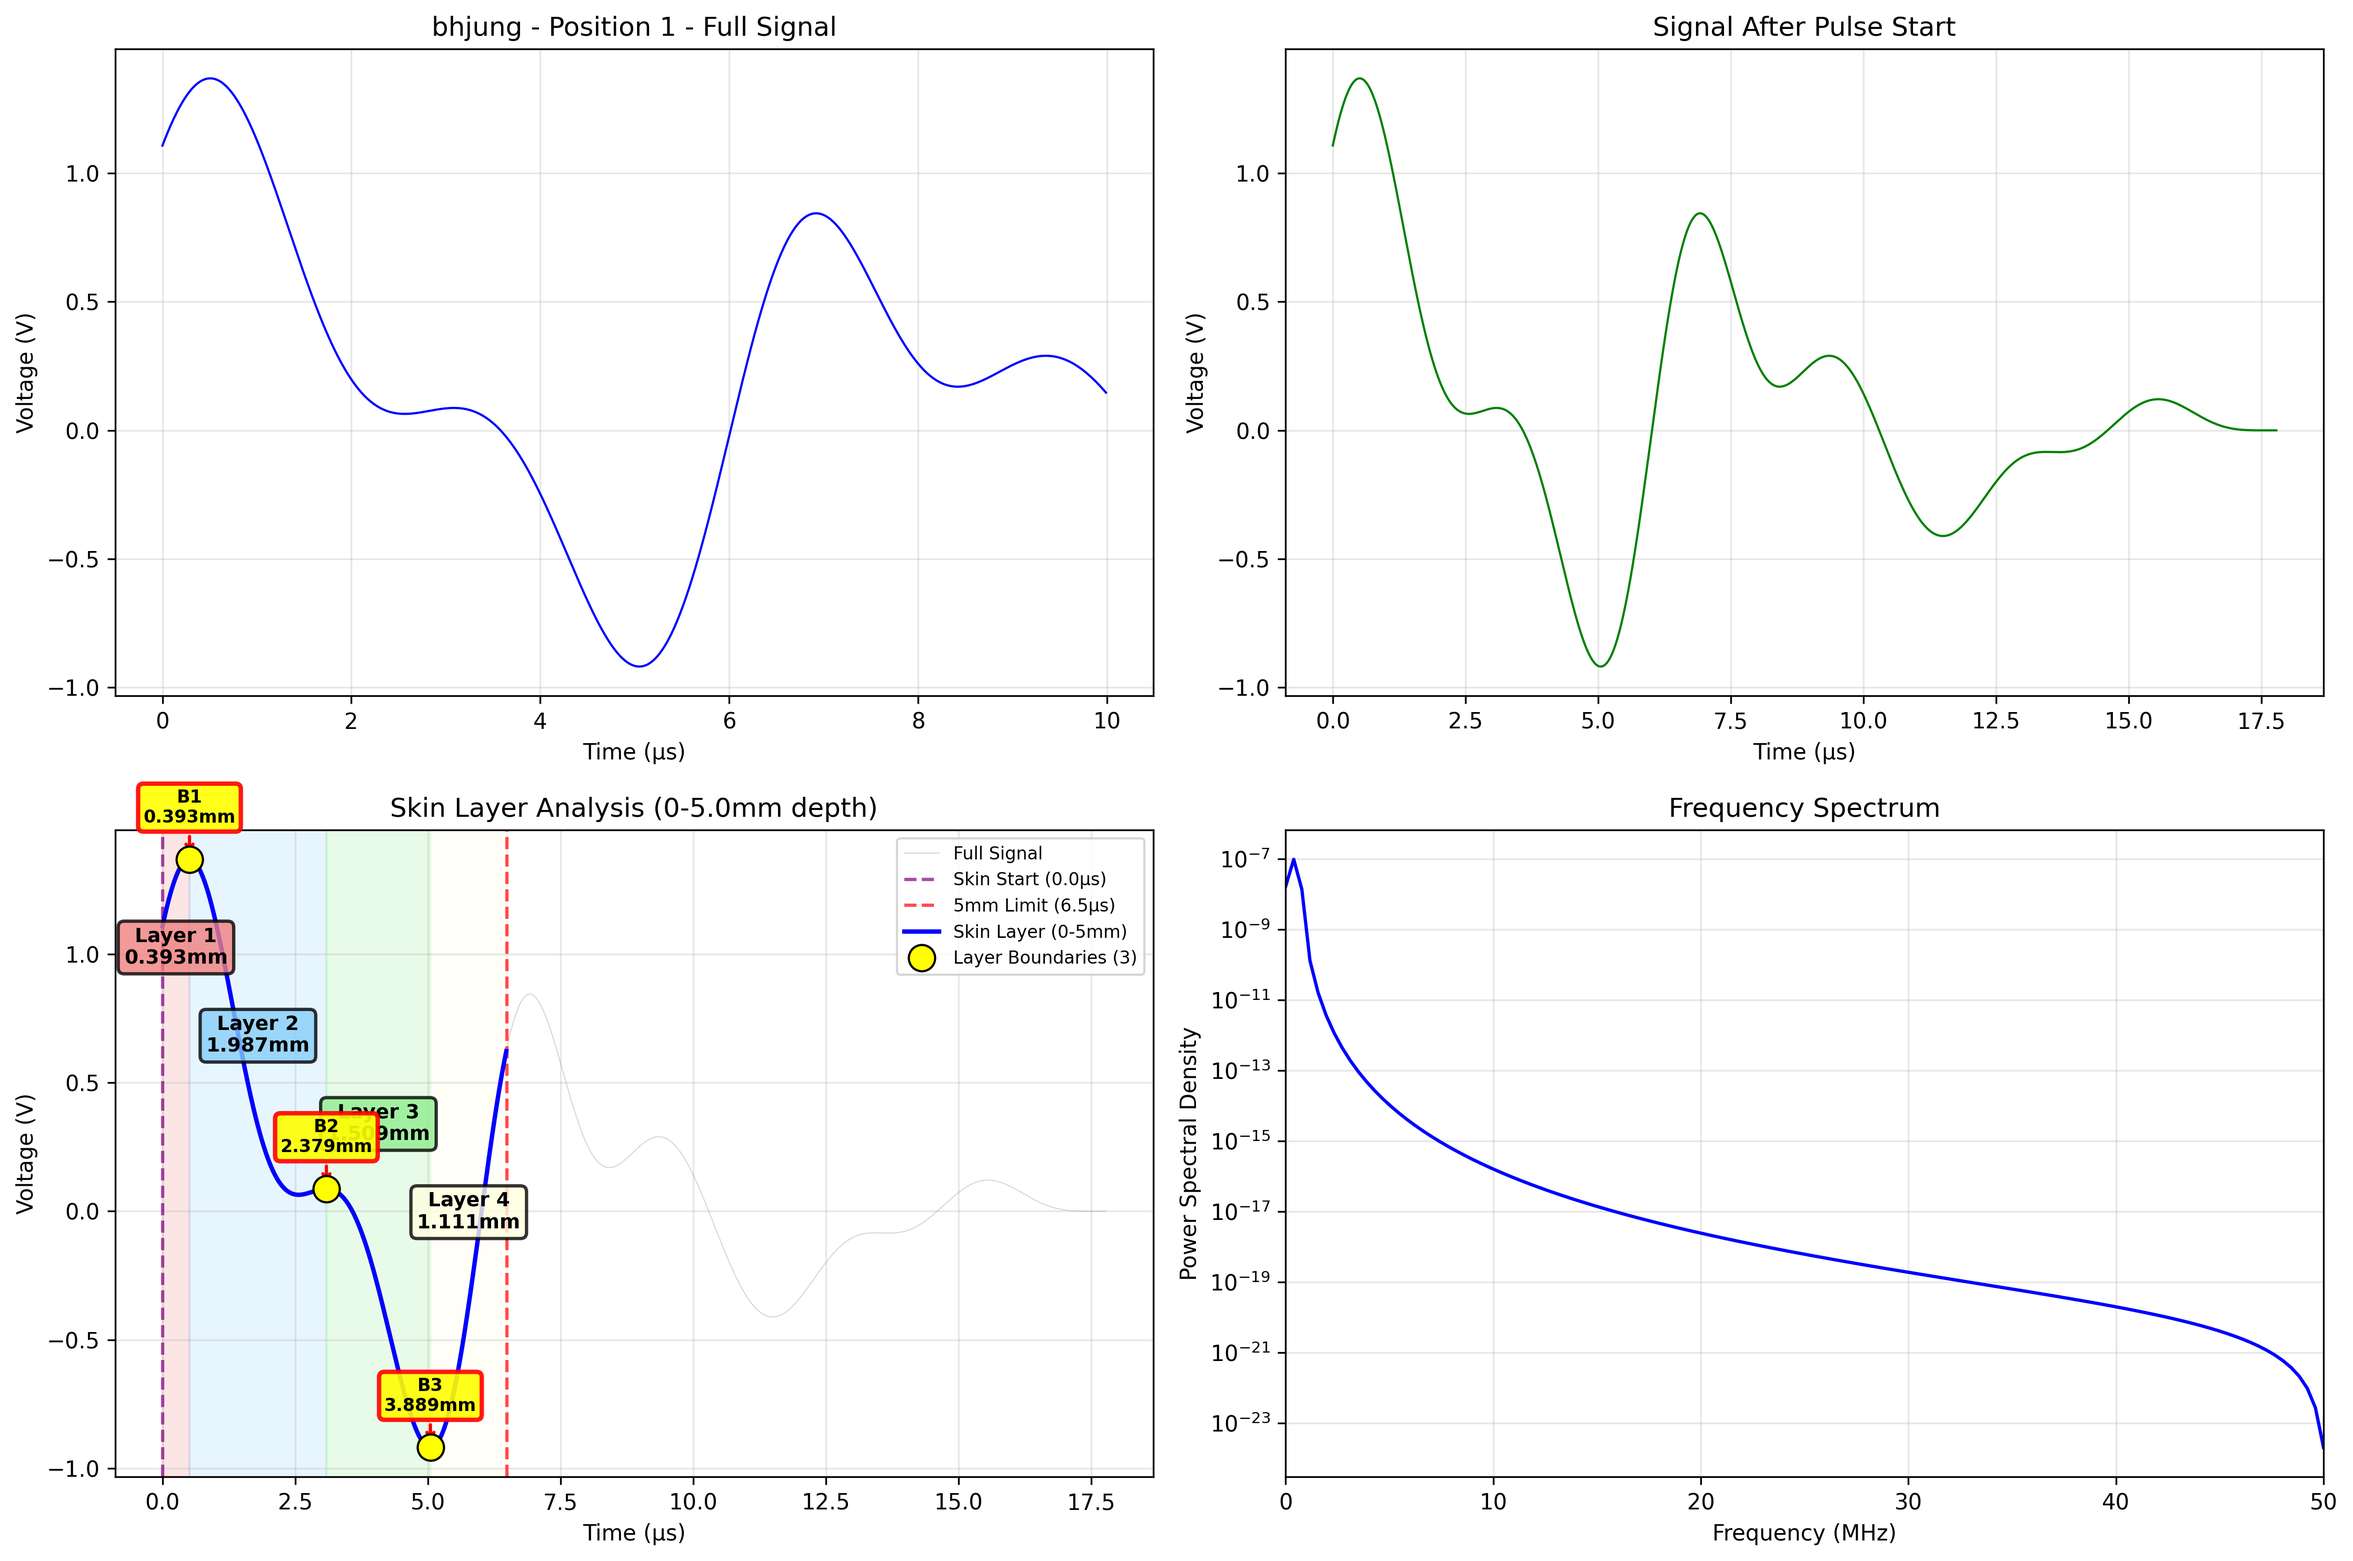
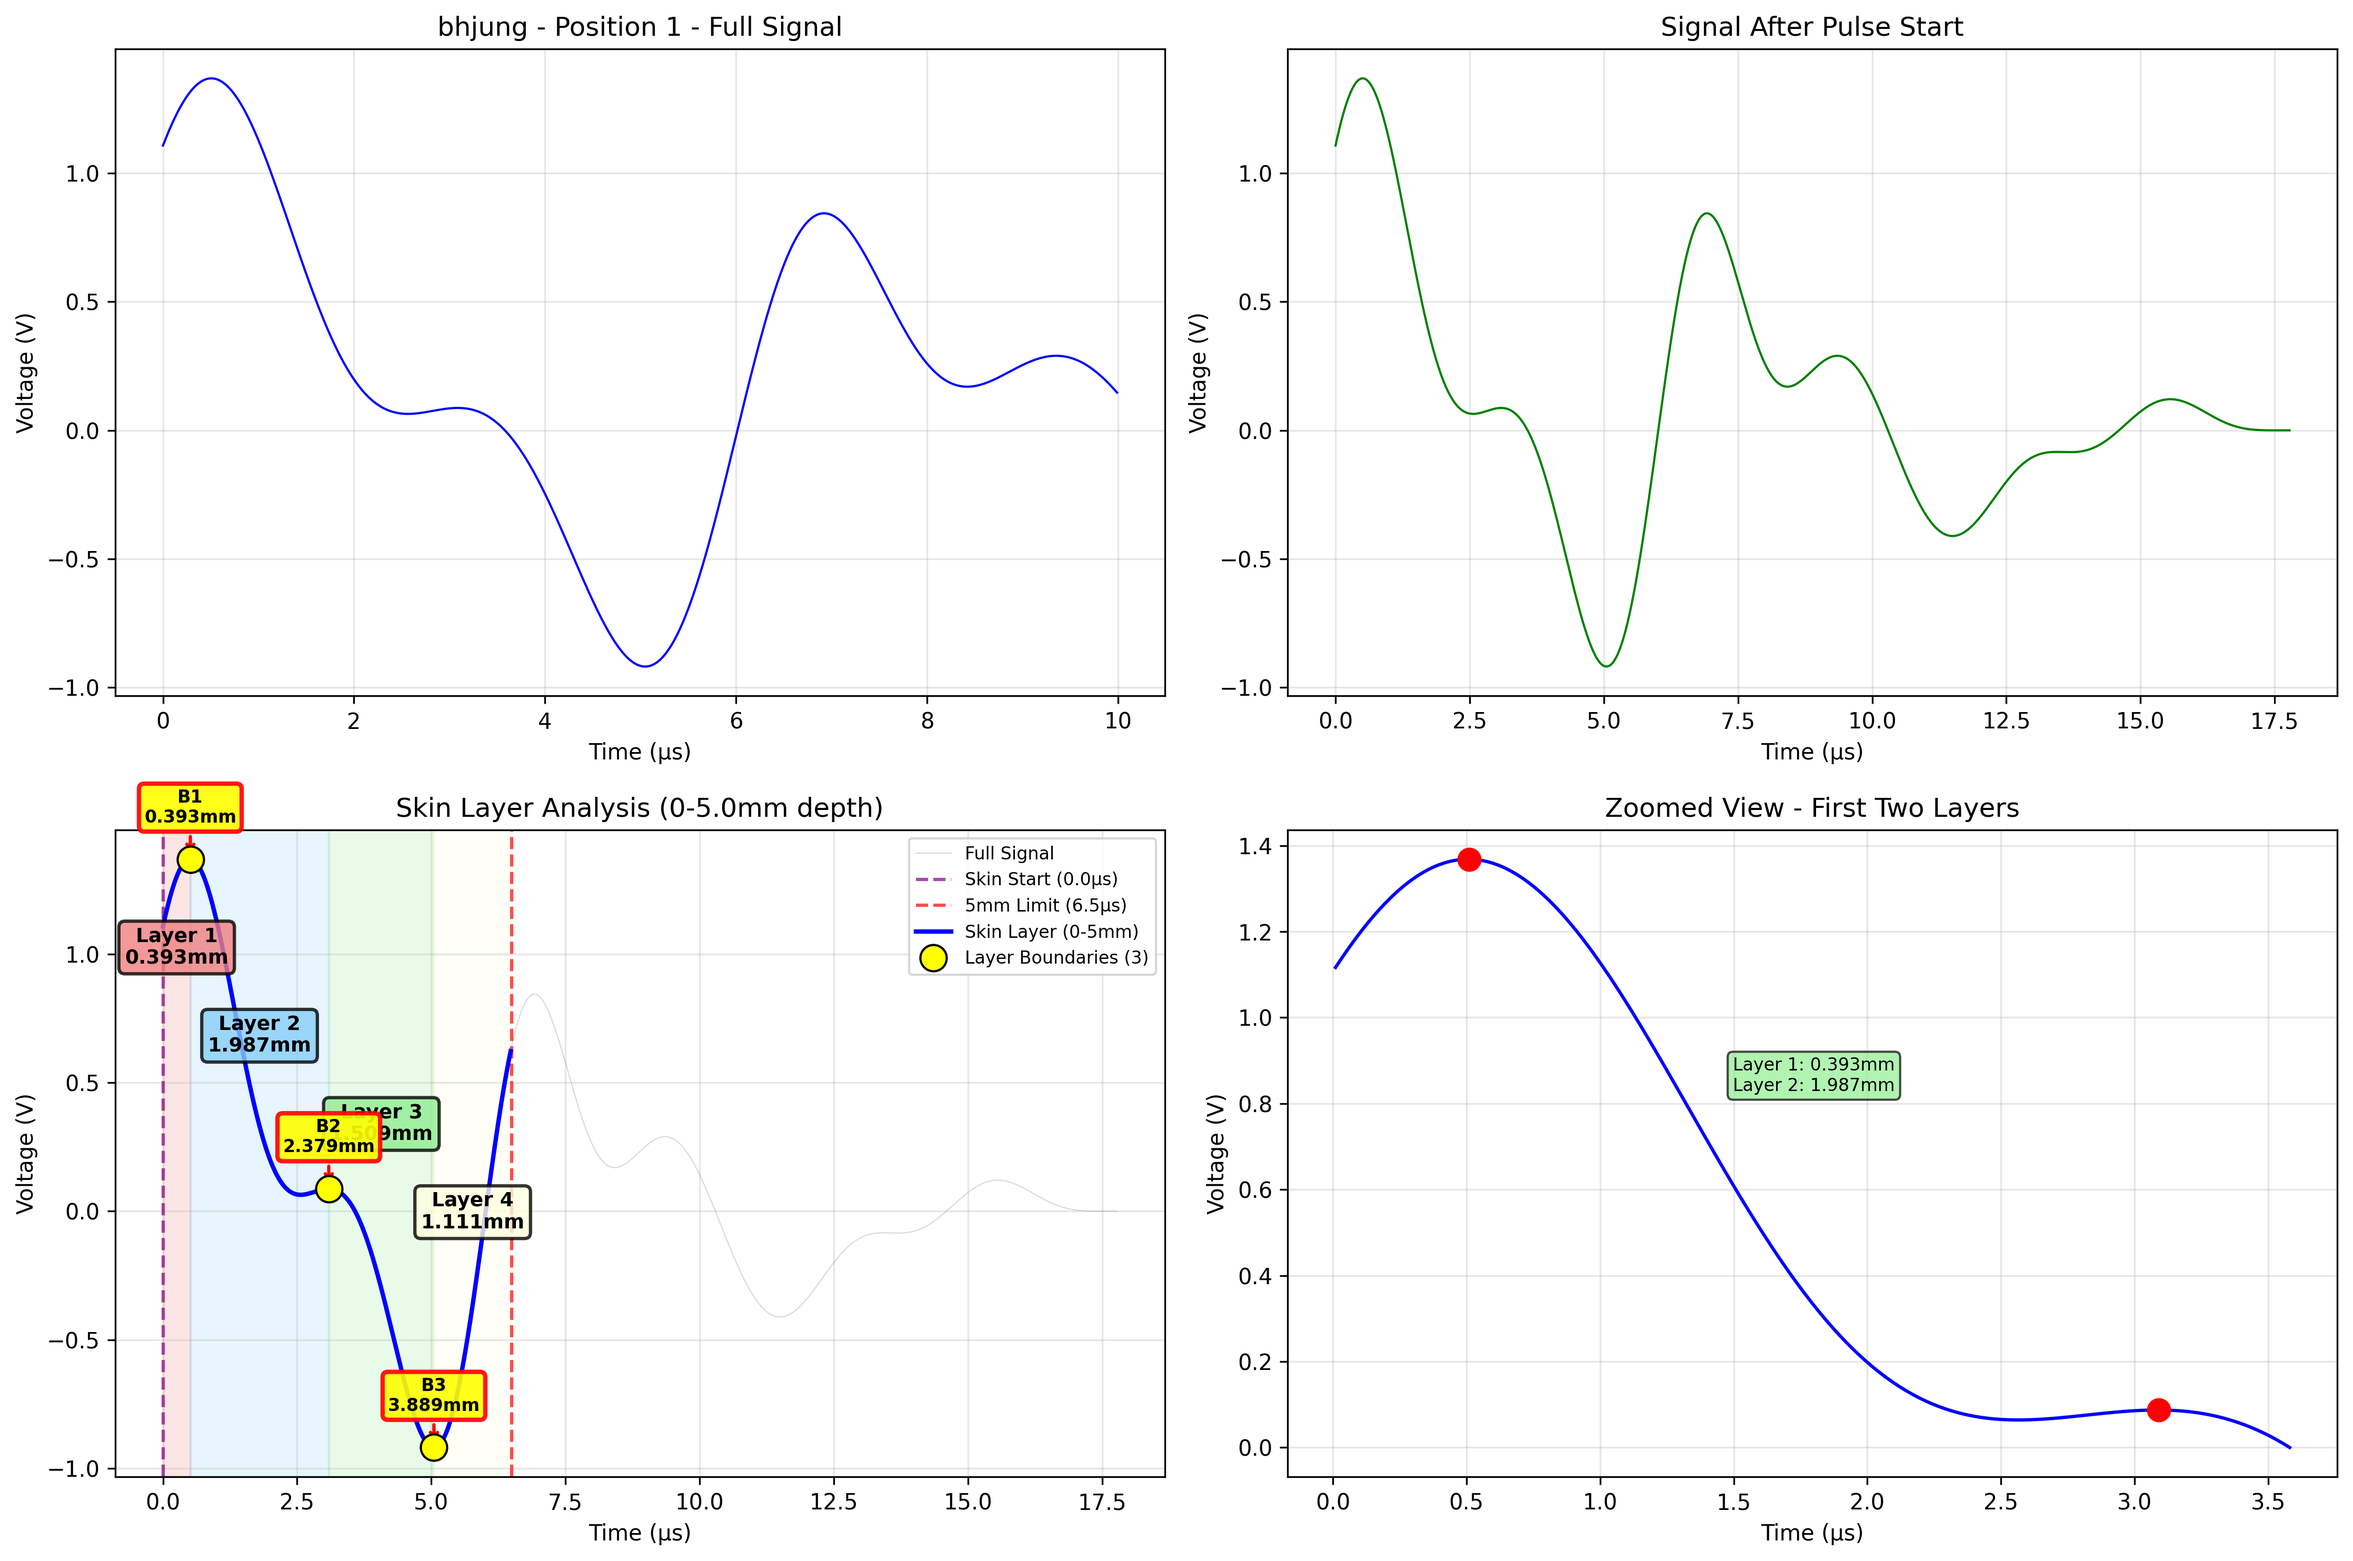
시각화 개선: Frequency Spectrum을 Zoomed View로 교체
변경 사항:
- 오른쪽 하단 그래프를 주파수 스펙트럼에서 첫 두 층의 확대 보기로 변경
- 첫 번째와 두 번째 피크 사이 영역을 상세히 표시
- Layer 1과 Layer 2의 두께 정보를 확대 그래프에 표시
- 신호의 형태를 더 명확하게 확인 가능

개선 효과:
- 층 구조를 더 직관적으로 이해 가능
- 피크 간 신호 변화를 상세히 관찰 가능
- 주파수 정보 대신 실제 층 경계의 상세 정보 제공

🤖 Generated with [Claude Code](https://claude.com/claude-code)

diff --git a/analyze_all_patients.py b/analyze_all_patients.py
@@ -293,18 +293,48 @@ def visualize_patient_file(result: Dict, save_path: str):
 
         ax3.legend(loc='upper right', fontsize=8)
 
-    # 주파수 스펙트럼
-    from scipy import signal
-    if len(filtered_data) > 64:
-        sample_rate = 100e6  # 100 MHz
-        freqs, psd = signal.welch(filtered_data, fs=sample_rate, nperseg=256)
-        freqs_mhz = freqs / 1e6
-        ax4.semilogy(freqs_mhz, psd, 'b-')
-        ax4.set_title('Frequency Spectrum')
-        ax4.set_xlabel('Frequency (MHz)')
-        ax4.set_ylabel('Power Spectral Density')
+    # 전체 신호 상세 보기 (첫 번째 피크 근처 확대)
+    if len(peaks) >= 2:
+        # 첫 두 피크 사이 영역 확대
+        start_idx = max(0, peaks[0] - 50)
+        end_idx = min(len(skin_analysis_time), peaks[1] + 50)
+
+        zoomed_time = skin_analysis_time[start_idx:end_idx]
+        zoomed_voltage = skin_filtered_data[start_idx:end_idx]
+        zoomed_peaks = peaks[:2] - start_idx
+
+        ax4.plot(zoomed_time, zoomed_voltage, 'b-', linewidth=1.5)
+
+        # 피크 표시
+        peak_times_zoom = skin_analysis_time[peaks[:2]]
+        peak_voltages_zoom = skin_filtered_data[peaks[:2]]
+        ax4.scatter(peak_times_zoom, peak_voltages_zoom, color='red', s=100, zorder=5)
+
+        # 두께 표시 (첫 두 피크 사이)
+        if len(result['layers']) >= 2:
+            thickness_1 = result['layers'][0]['thickness_mm']
+            thickness_2 = result['layers'][1]['thickness_mm']
+
+            mid_time = (peak_times_zoom[0] + peak_times_zoom[1]) / 2
+            mid_voltage = (peak_voltages_zoom[0] + peak_voltages_zoom[1]) / 2
+
+            ax4.annotate(f'Layer 1: {thickness_1:.3f}mm\nLayer 2: {thickness_2:.3f}mm',
+                        (mid_time, mid_voltage), xytext=(0, 20),
+                        textcoords='offset points', ha='center',
+                        bbox=dict(boxstyle='round,pad=0.3', facecolor='lightgreen', alpha=0.7),
+                        fontsize=8)
+
+        ax4.set_title('Zoomed View - First Two Layers')
+        ax4.set_xlabel('Time (μs)')
+        ax4.set_ylabel('Voltage (V)')
         ax4.grid(True, alpha=0.3)
-        ax4.set_xlim(0, 50)
+    else:
+        # 피크가 2개 미만이면 전체 필터링된 신호 표시
+        ax4.plot(time_data[:1000], filtered_data[:1000], 'b-', linewidth=1)
+        ax4.set_title('Filtered Signal Detail')
+        ax4.set_xlabel('Time (μs)')
+        ax4.set_ylabel('Voltage (V)')
+        ax4.grid(True, alpha=0.3)
 
     plt.tight_layout()
     plt.savefig(save_path, dpi=300, bbox_inches='tight')
